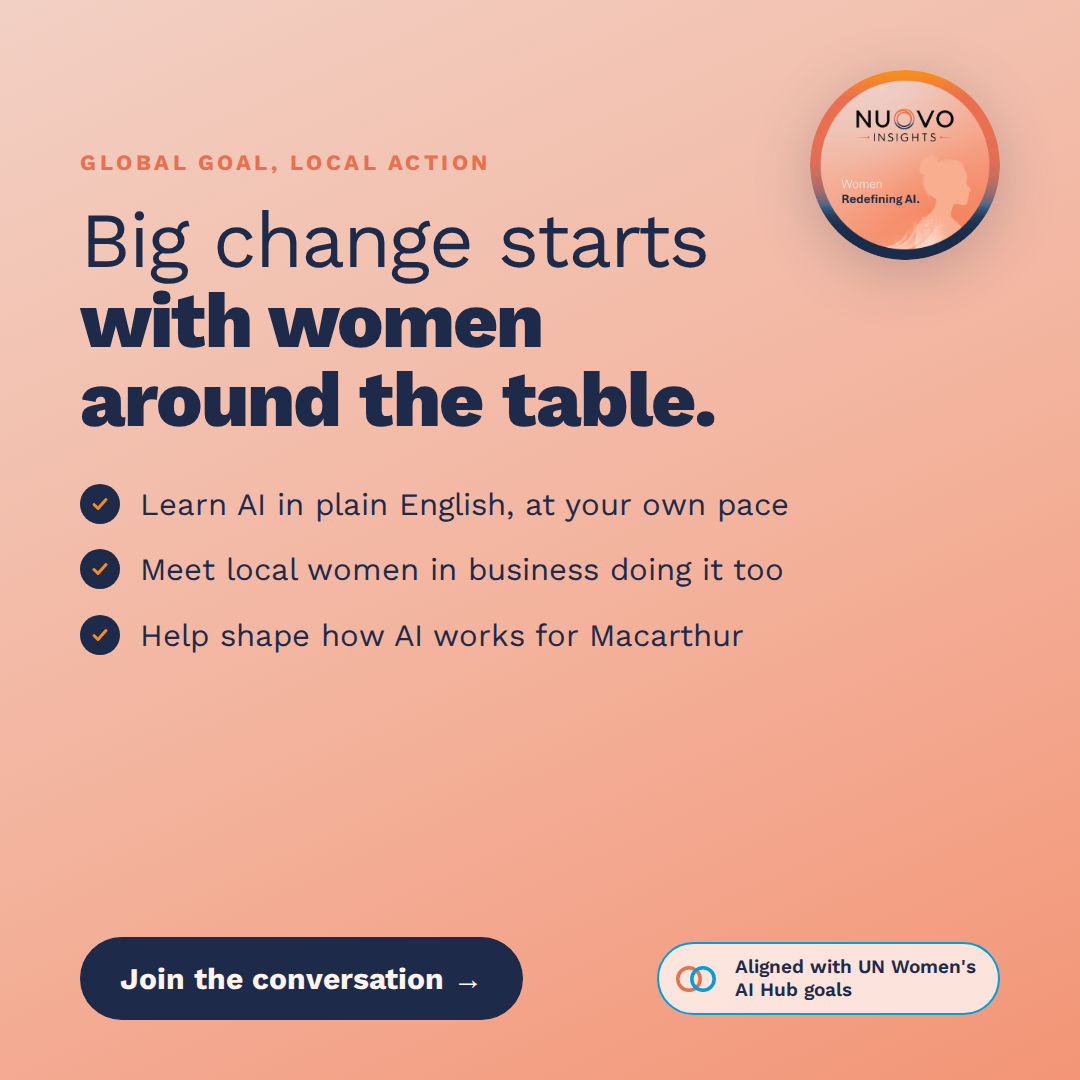
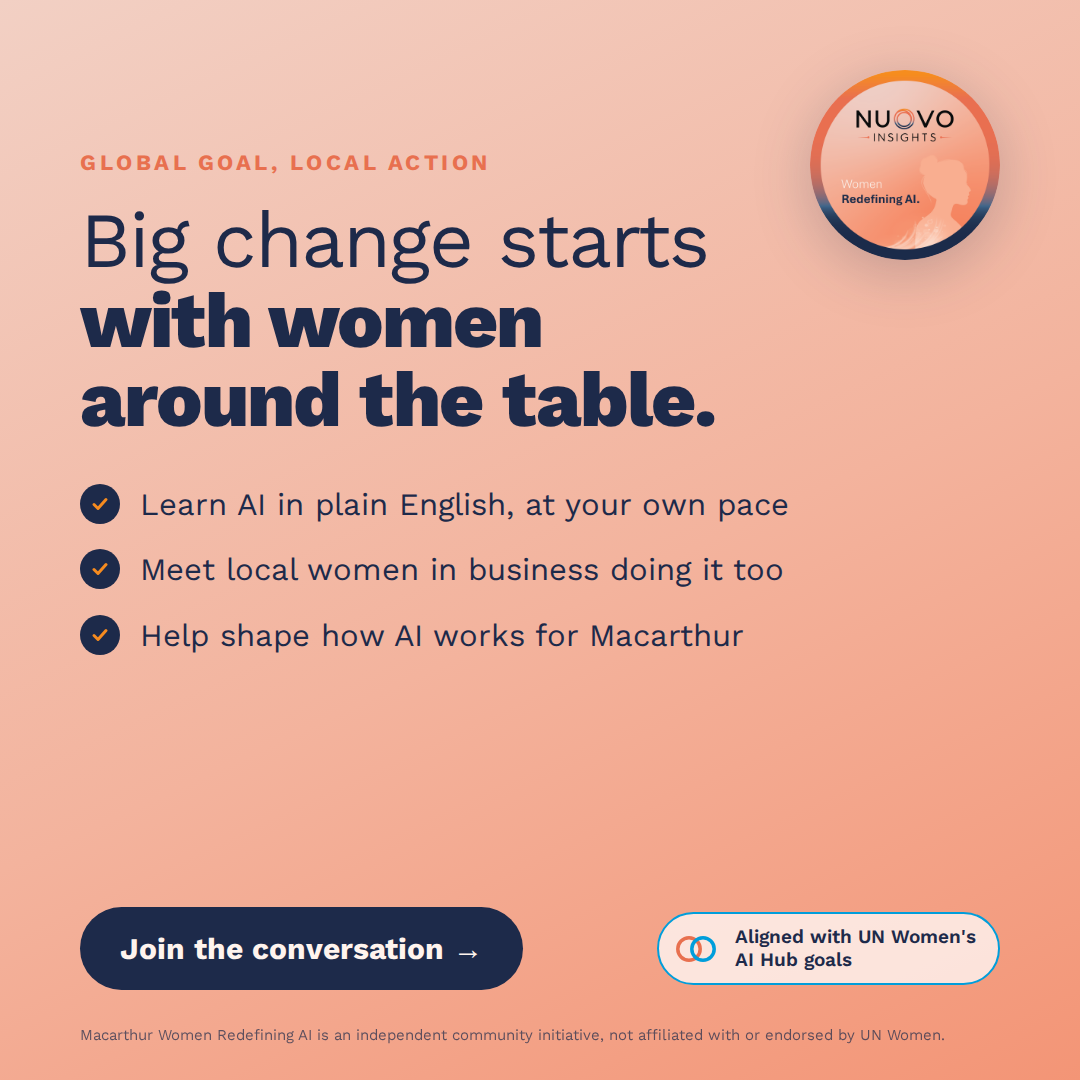
Use full forum name 'Macarthur Women Redefining AI' in all text
The logo stays region-free ('Women Redefining AI'); text references,
disclaimers and captions now use the full forum name. Adds the
non-affiliation disclaimer to Post 3 and a naming note to the guide.

Claude-Session: https://claude.ai/code/session_01A5NUPf1xde1oJojN3uibas

Changed region(s): [[0.0611, 0.825, 0.55, 0.9778], [0.5806, 0.825, 0.9472, 0.9778]]

diff --git a/social/un-women-ai-hub/designs.html b/social/un-women-ai-hub/designs.html
@@ -3,9 +3,9 @@
 <head>
 <meta charset="utf-8">
 <meta name="viewport" content="width=device-width, initial-scale=1">
-<title>MWRAI x UN Women AI Hub</title>
+<title>Macarthur Women Redefining AI x UN Women AI Hub</title>
 <style>
-  /* Work Sans: the closest free match to the lettering in the MWRAI logo (fonts/ folder, open licence) */
+  /* Work Sans: the closest free match to the lettering in the Women Redefining AI logo (fonts/ folder, open licence) */
   @font-face { font-family: "Work Sans"; src: url("fonts/worksans-400.woff2") format("woff2"); font-weight: 400; }
   @font-face { font-family: "Work Sans"; src: url("fonts/worksans-600.woff2") format("woff2"); font-weight: 600; }
   @font-face { font-family: "Work Sans"; src: url("fonts/worksans-700.woff2") format("woff2"); font-weight: 700; }
@@ -14,6 +14,8 @@
   /*
     BRAND COLOURS
     Taken from the Women Redefining AI logo, plus UN blue for the alignment with UN Women.
+    NAMING: the logo says "Women Redefining AI" (kept region-free so it can travel to other regions).
+    Whenever the forum is named in text, use the full name: "Macarthur Women Redefining AI".
   */
   :root {
     --orange: #f68b1f;     /* logo ring, top */
@@ -142,7 +144,7 @@
       </div>
       <div class="footer">
         <p class="source">Source: UN Women press release, 25 September 2026.</p>
-        <p class="disclaimer">Women Redefining AI is an independent community initiative, not affiliated with or endorsed by UN Women.</p>
+        <p class="disclaimer">Macarthur Women Redefining AI is an independent community initiative, not affiliated with or endorsed by UN Women.</p>
       </div>
     </section>
   </div>
@@ -171,7 +173,7 @@
       </div>
       <div class="footer">
         <p class="source">Source: UN Women press release, 25 September 2026.</p>
-        <p class="disclaimer">Women Redefining AI is an independent community initiative, not affiliated with or endorsed by UN Women.</p>
+        <p class="disclaimer">Macarthur Women Redefining AI is an independent community initiative, not affiliated with or endorsed by UN Women.</p>
       </div>
     </section>
   </div>
@@ -190,10 +192,11 @@
           <li>Help shape how AI works for Macarthur</li>
         </ul>
       </div>
-      <div class="footer" style="display:flex; justify-content:space-between; align-items:center; gap:24px">
+      <div class="footer" style="display:flex; justify-content:space-between; align-items:center; gap:24px; bottom:90px">
         <span class="cta">Join the conversation →</span>
         <span class="align" style="font-size:19px"><svg width="46" height="28"><use href="#rings"/></svg>Aligned with UN Women's<br>AI Hub goals</span>
       </div>
+      <p class="disclaimer" style="position:absolute; left:80px; right:80px; bottom:34px; z-index:4">Macarthur Women Redefining AI is an independent community initiative, not affiliated with or endorsed by UN Women.</p>
     </section>
   </div>
 
@@ -215,7 +218,7 @@
       <div class="footer">
         <span class="cta">Tap the link to join us →</span>
         <p class="source" style="margin-top:30px">Source: UN Women press release, 25 September 2026.</p>
-        <p class="disclaimer">Women Redefining AI is an independent community initiative, not affiliated with or endorsed by UN Women.</p>
+        <p class="disclaimer">Macarthur Women Redefining AI is an independent community initiative, not affiliated with or endorsed by UN Women.</p>
       </div>
     </section>
   </div>

diff --git a/social/un-women-ai-hub/README.md b/social/un-women-ai-hub/README.md
@@ -1,6 +1,6 @@
-# MWRAI × UN Women AI Hub: social media pack
+# Macarthur Women Redefining AI × UN Women AI Hub: social media pack
 
-Social media designs that bring the **Women Redefining AI** (Nuovo Insights, Macarthur) brand together with the news that **UN Women has launched its Digital, Innovation and AI Hub** (25 September 2026).
+Social media designs that bring the **Macarthur Women Redefining AI** forum together with the news that **UN Women has launched its Digital, Innovation and AI Hub** (25 September 2026).
 
 ## What's in here
 
@@ -15,16 +15,21 @@ Social media designs that bring the **Women Redefining AI** (Nuovo Insights, Mac
 
 Posts 1 to 3 work as a **carousel** (swipe post) or as three separate posts across a week.
 
+## Naming
+
+- **The forum:** always use the full name, **Macarthur Women Redefining AI**, in captions, disclaimers and any text.
+- **The logo:** it says **Women Redefining AI** without "Macarthur" on purpose, so the same brand can be used in other regions later. Keep the logo as it is.
+
 ## The logo
 
-Your **Women Redefining AI** logo (`mwrai-logo.png`) is used exactly as supplied. It has only been trimmed to the circle and resized, and it's never recoloured or stretched.
+The **Women Redefining AI** logo (`mwrai-logo.png`) is used exactly as supplied. It has only been trimmed to the circle and resized, and it's never recoloured or stretched.
 
 ## How the UN Women alignment works
 
 - **Two overlapping circles:** your logo (labelled *Macarthur*) overlaps a UN-blue ring (labelled *UN Women AI Hub*). It says "local meets global" at a glance, and it echoes the double ring in the NUOVO "O".
 - **UN blue** (`#009edb`) is used only for the UN side: the ring, the "AI Hub" words and the stat bars.
 - **"Aligned with" badges** use our own two-ring icon, not the UN Women logo.
-- **A short disclaimer** sits on the posts: *"Women Redefining AI is an independent community initiative, not affiliated with or endorsed by UN Women."*
+- **A short disclaimer** sits on every design: *"Macarthur Women Redefining AI is an independent community initiative, not affiliated with or endorsed by UN Women."*
 
 Why not the actual UN Women logo? The UN name and emblem are protected, and using them needs written permission from the UN. Without it, the logo can make a post look like an official partnership. Naming UN Women in words to share their news is fine. If you ever formally partner with UN Women, the blue ring can easily be swapped for their approved logo.
 
@@ -61,7 +66,7 @@ After any change to `designs.html`, run `node render.js` (or ask Claude) to upda
 
 **Post 3: local call to action**
 > Global change starts with local conversations ☕
-> At Women Redefining AI, we keep it simple:
+> At Macarthur Women Redefining AI, we keep it simple:
 > ✅ Learn AI in plain English, at your own pace
 > ✅ Meet local women in business doing it too
 > ✅ Have your say in how AI shapes our region
